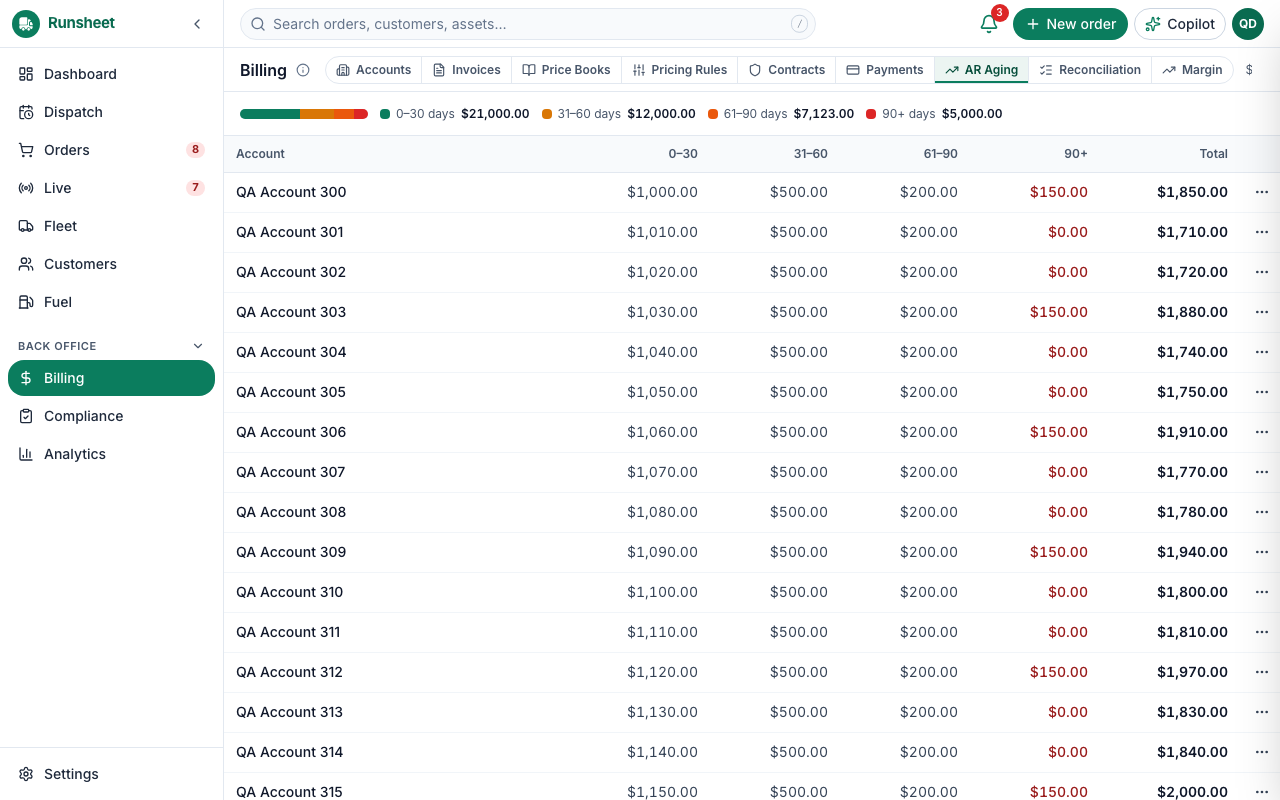
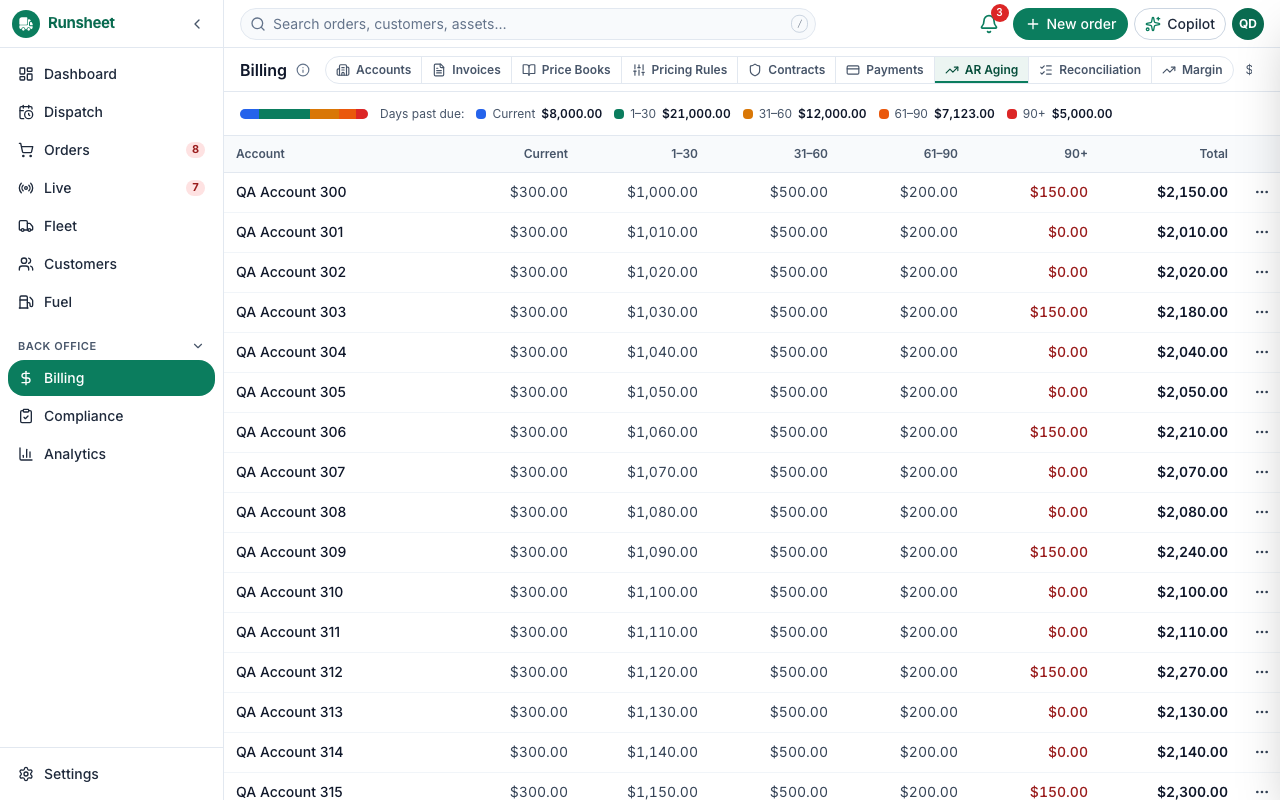
docs(ui): Phase 3 iteration 4 evidence (go-live-blockers merge, F-fix ports, re-verification)

diff --git a/.agents/tasks/ui-revamp-2026-10-08/phase3-review.md b/.agents/tasks/ui-revamp-2026-10-08/phase3-review.md
@@ -1,84 +1,60 @@
-# Phase 3 iteration 3: Billing, Compliance, Settings, Copilot parity and guard-to-zero
+# Phase 3 iteration 4 review: evidence and fixes closed; branch stale against go-live-blockers
 
-Iteration 3 (`713cee9..b70d8d9`, 26 commits) merges 3P's go-live-blockers head, then covers almost all of the remaining Phase 3 scope. Billing (invoices, accounts, payments, AR aging, reconciliation, price books, margin) and Compliance (certifications, meters, BOLs, IFTA, exemptions, tax, contracts, pricing rules, terminal detail) move onto the list and detail templates with `FormDialog` create/edit flows. Settings depots, flags, intake channels, integrations, templates, road restrictions and agent settings are migrated. `/ops/command` is deleted, with redirect row 5 and an inline Copilot confirmation that now records the decision through the approvals API. The Plans view's Emergency stop and Cost configuration dialogs are fixed (the iteration-2 finding). The format guard is at 0 and every `test.fail` mark is gone. The phase still can't be approved, because the bookkeeping and verification for this iteration don't exist yet.
+This pass covers `5300be5..eb0eec5`, the fixes for all nine iteration-3 findings and the iteration-3 evidence. All nine are closed. The shared `FormDialog`/`Modal`/`DataTable`/touch-variant additions are committed with no-change tests (`sharedAdditions.test.tsx`). The Plans cluster chips show product names. Cost import is a two-step `lg` FormDialog, and the deviation from the `steps` prop is recorded. The Sourcing wait report and cargo manifest editor are on FormDialog. Copilot cards with no action id offer no decision. 3.11's re-scope is written into `tasks.md`. Every Phase 3 task is ticked. `phase3-evidence.md` now records tsc, lint, jest (168 suites, 2351 passed), a fresh-checkout build, a full green `e2e/ui-revamp` run with no `test.fail` marks, the board e2e with N1 at 17.5 ms, 172 px first rows on every Phase 3 list page at both sizes, and axe on 31 pages and 13 dialogs. The measurement work also caught six Billing entries that were silently measuring the Invoices fallback, and fixed them.
 
-Watch for: none of the work since `4fc1e2c` has any evidence (confirmed). There's no tsc, lint, jest, build, e2e, chrome-height, axe or FormDialog-test record, even though `b70d8d9` removes every `test.fail` mark on the claim that all pages pass. 3.4, 3.5, 3.6, 3.8, 3.10 and 3.11 are still unticked (confirmed). The worktree has uncommitted changes to `FormDialog`, `Modal` and `Table` (confirmed). 3.11's portal swap was reverted (`dcb70b3`), and `tasks.md` doesn't record the hand-off (confirmed).
+Watch for: `origin/production-readiness/go-live-blockers` moved after the last merge (`ab5f933` → `e636358`, 14 commits), and merging it into this branch now conflicts in 9 files (confirmed). Those commits are owner-facing data-correctness fixes (F2–F5, F11–F13): an AR aging Current bucket, Analytics real data and as-of, fuel "—" for non-consuming stations, and scheduling completion %. They land in components Phase 3 rewrote or deleted, including `FuelSummaryBar.tsx`, which Phase 3 deleted and go-live-blockers modified. Phase 3 can't merge in order until they're ported into the redesigned components and re-verified.
 
 **Verdict**: NEEDS_CHANGES
 
 ## High-level view
 
-The migration itself matches the spec. Every create/edit row in design §5 now opens a `FormDialog`, except `CostImportDialog`, which moved to the shared `Modal` instead of the "lg steps" target. The bespoke `fixed inset-0` overlays outside `ui/` are down to the §5 exemptions (`ReportViewer`, `TankConsumptionDrillIn`, board sheets) and `request-pilot`. Products render as `ProductChip`/`ProductSelect` by name. Tax rates are now converted correctly: the old form asked for "1840 for 18.4¢", which is ten times the backend's `RATE_SCALE = 10`. The new form edits cents and stores tenths of a cent. One raw-code site survived in a file Phase 3 now owns: Plans' cluster member chips print `fuel_grade` verbatim.
+The Phase 3 scope matches the spec. Every create/edit flow in design §5 plus the extra inline flows found in review is on `FormDialog`. The only `fixed inset-0` overlays outside `ui/` are the §5 exemptions (`ReportViewer`, `TankConsumptionDrillIn`, board sheets), the mobile sidebar and `request-pilot`. The only remaining `type="number"` is in the Phase 2 `CompartmentsTab`, logged as a follow-up. Products render by name through `ProductChip`/`ProductSelect`. The station capacity and compartment float-gallon bugs have regression tests. Role gating matches `modules.ts`: System health is `platform_admin` only, Tier 4 Billing tabs are `platform_admin`, and Margin is admin-only and hidden when the feed is off. The Analytics range selector stays hidden (D13). The redirect map covers row 5 and every function move, and all 24 redirect tests pass in the recorded run. Portal and auth files are byte-identical to go-live-blockers. The Phase 2 edits are format-only plus the owner-requested tray fix, and all are listed in evidence.
 
-The gate can't pass on the record as it stands. The implementer's process puts verification in `phase3-evidence.md`, and that file stops at iteration 2. This iteration's chrome heights for the 13 new Compliance, Billing and Settings pages, axe results, jest counts and fresh-checkout build are all unrecorded. The review brief forbids re-running the suites to fill the gap. Removing the `test.fail` marks without a recorded green run is the most visible instance of the gap.
-
-3.11 is in an awkward state. The shared pieces are landing (the `open`/`partial` tokens and the `StatusBadge` `icon` prop are committed). `FormDialog`/`Modal` `mobile="sheet"`, the `aria-disabled` submit, `keepOpenOnSuccess`, and `DataTable` `stickyTop`/touch rows sit uncommitted in the worktree. The portal-side swap was reverted because "the portal workflow owns" those files. That revert keeps the portal-untouched rule, but 3.11 as written can't then be ticked. The task needs a recorded re-scope: shared pieces here, portal swap handed to the 3P workflow, with the gate it inherits.
-
-Copilot parity is functionally better than the console it replaces. The console's Approve and Reject buttons only changed local state, while the Copilot card calls `approveAction`/`rejectAction`. The backend chat stream doesn't appear to emit a `confirmation` event, though, so neither UI can reach this path end to end.
-
-Phase 2 and portal/auth boundaries hold. Portal and auth files are untouched across the whole branch. The Phase 2 edits this iteration are formatting-only, for guard-to-zero: `CompartmentsTab`, `DriverTray`, `ReplanDiffBody` and `OrderDetailView`. `driver-app/lib/tokens.ts` was regenerated with the two new statuses. All of these are additive, but none is noted in evidence.
+The blocker is integration, not implementation. Fourteen go-live-blockers commits from the owner's staging sweep (F1–F15) touch nine files this branch rewrote. A merge needs hand resolution, and some resolutions are real ports rather than picking a side. The backend now ages AR by due date and returns `bucket_current_cents`. Phase 3's `ARAgingDashboard` has no Current bucket, so taking Phase 3's side would leave the bucket bars short of `total_open_cents`. `Analytics.tsx` was rewritten on both sides (457 lines on go-live-blockers). `FuelSummaryBar` is a modify/delete conflict whose "—" for no consumption has to reappear in the Fuel title-row counts. Margin availability was fixed on both branches with the same intent, so `CommerceHub` and `marginApi` need a single reconciled version. All of the iteration-3 verification ran on the pre-merge tree, so the affected suites, the chrome/axe pages for Fuel, Analytics and Billing, and a fresh-checkout build need a re-run after the merge.
 
 <details>
-<summary>Issues (9)</summary>
+<summary>Issues (3)</summary>
 
-1. **Phase 3 tasks unticked (blocking)**: 3.4, 3.5, 3.6, 3.8, 3.10 and 3.11 are `[ ]` in `spec/tasks.md` (confirmed), and none is post-deploy-only. Tick each one with a Done note once its evidence exists.
-2. **No iteration-3 evidence (blocking)**: `phase3-evidence.md` ends at iteration 2 (confirmed). Add an iteration-3 section with tsc, lint, jest counts, a fresh-checkout build, a full `e2e/ui-revamp` run green with no `test.fail` marks, the board e2e with N1, a first-row px table at 1280×800 and 1440×900 for every new Compliance, Billing and Settings page in `pages.ts`, axe per new page and open dialog, tokens/CVD for `open`/`partial`, and the FormDialog behaviour tests per migrated flow.
-3. **Uncommitted shared-component changes (blocking)**: `ui/FormDialog.tsx` (`mobile`, `submitDisabled`, `keepOpenOnSuccess`), `ui/Modal.tsx` (`mobile="sheet"`) and `ui/Table.tsx` (`rowHeight="touch"`, `stickyTop`) are modified but not committed, and have no tests (confirmed). Commit them with no-change tests for existing callers, or drop them, and note them as additive in evidence.
-4. **3.11 scope versus the portal revert (blocking)**: `dcb70b3` reverted the portal-side swap, but 3.11 still requires removing `PORTAL_EXTRA_STATUS`/`PortalBadge`, `portalFormat.ts`, `PortalTable` and the rest (confirmed). Record in `tasks.md` that 3.11 delivers the shared pieces only and hands the portal swap to the 3P workflow, gated on unchanged portal baselines, then tick it. Otherwise do the swap.
-5. **Raw product code in Plans clusters**: `ops/FuelDistributionPage.tsx:2615` renders `` ` · ${m.fuel_grade}` `` (confirmed). The file is Phase 3-owned under 3.10. Use `productName()` or a `ProductCap`.
-6. **Cost import not on FormDialog**: `commerce/margin/CostImportDialog.tsx` uses the shared `Modal`, while design §5 targets "lg steps" (confirmed). Move it to a stepped `FormDialog` (Check file → Import), or record the deviation and the reason in evidence.
-7. **Inline numeric create forms outside §5**: the Sourcing wait report (`ops/SourcingPage.tsx:707`) and `ops/CargoManifestEditor.tsx:294` are still inline `type="number"` create forms (confirmed; both predate this branch). D9 says every create/edit flow. Migrate them, or list them as recorded exceptions.
-8. **Copilot confirmation unreachable and empty-id approve**: the chat stream doesn't appear to emit `type: "confirmation"` (likely; no emitter found in `Runsheet-backend`), and `AIChat` shows Approve/Reject even when `actionId` is `""`, which would call the approvals API with an empty id (confirmed). Hide the buttons (keep "Open in Approvals" hidden too) when there's no id, and note in evidence that the path is backend-gated.
-9. **Phase 2 and driver-app edits not recorded**: format-only edits to `CompartmentsTab`, `DriverTray`, `ReplanDiffBody`, `OrderDetailView`, plus the regenerated `driver-app/lib/tokens.ts` (confirmed additive). List them in evidence. `CompartmentsTab.tsx:138, 359` still print a raw `product_code` (pre-existing, Phase 2 file): log it as a follow-up.
+1. **Branch stale against go-live-blockers; F-fixes at risk (blocking)**: merging `e636358` conflicts in `Analytics.tsx`, `CommerceHub.tsx`, `ARAgingDashboard.tsx`, `AccountDetailPage.tsx`, `FuelStationDetail.tsx`, `FuelStationList.tsx`, `FuelSummaryBar.tsx` (modify/delete), `SchedulingMetricsPage.tsx` and `e2e/ui-revamp/shellFake.ts` (confirmed with `git merge-tree`). Merge it, then port F2/F3/F13 (Analytics real data, as-of, error states), F4/F11 (scheduling completion %, UTC bucket dates), F5 ("—" for non-consuming stations in the Fuel title-row counts and station detail) and F12 (AR Current bucket and "days past due" labels) into the redesigned components. Keep one Margin availability implementation. Then re-run tsc, lint, jest, a fresh-checkout build, and the ui-revamp chrome/axe/visual runs for Fuel, Analytics, Billing and Scheduling metrics, and record the results in evidence.
+2. **Phase 2 `CompartmentsTab` codes (follow-up)**: `CompartmentsTab.tsx:138, 359` still print a raw `product_code`, and `:143` is a `type="number"` input (confirmed; Phase 2 file, logged in evidence). Not blocking for Phase 3. Schedule it with the next board change.
+3. **Visual baselines self-recorded, Darwin only (follow-up)**: CI skips the pixel compare on Linux, so the new Billing/Compliance/Settings baselines guard nothing in CI (confirmed, carried). Record Linux baselines before go-live.
 
 </details>
 
 <details>
 <summary>Details</summary>
 
-### Evidence gap and the `test.fail` removal
-
-`b70d8d9` empties `pages.ts` of `chromeTask`/`axeTask` marks, and the header comment now says "no `test.fail()` marks remain after task 3.10". At iteration 2, three of those pages were measurably over budget or row-less: Compliance at 262 px, Billing invoices at 197 px, and Reconciliation, Settings depots and flags with no row under fixtures. The commits between them (`7483c51`, `844919f`, `bbe65c7`, `4aa4149`, `c30dd6f`) plausibly fix this: list templates, fixtures, and title-row counts in place of bands. Nothing records the numbers, though. The same goes for 13 new entries in `pages.ts` (Compliance ×4, Billing ×8, Settings tax/exemptions). The brief's rule applies: missing evidence for a required check is a finding, not something to re-run here.
-
-### 3.11 and the portal boundary
+### What go-live-blockers changed underneath Phase 3
 
 ```
-0cfa3d5  tokens open/partial + StatusBadge icon + portal badge swap   (3.11)
-dcb70b3  revert portal files (portal workflow owns them), keep tokens
-worktree FormDialog mobile/submitDisabled/keepOpenOnSuccess, Modal sheet,
-         Table touch/stickyTop  (uncommitted)
+ab5f933 (merged into ui-phase3 at 18b4829)
+   │
+   ├── ui-phase3: 5300be5 … eb0eec5  (iteration-3 fixes, evidence)
+   │
+   └── go-live-blockers: 776055c … e636358  (F1–F15 staging sweep)
+          backend: analytics snapshots/as_of/time-series, AR due-date aging,
+                   fuel avg-days exclusion, live delay minutes, driver reset
+          UI:      Analytics.tsx, SchedulingMetricsPage, FuelSummaryBar/
+                   StationList/StationDetail/DashboardView, ARAgingDashboard
+                   (+ agingLabels), AccountDetailPage, CommerceHub + marginApi
+                   (margin availability), shellFake ar-aging body
 ```
 
-The shared side is additive. `StatusBadge` gains an optional `icon` and a `data-icon` attribute, and the uncommitted props all default to today's behaviour. One caveat applies to the `Table` change: with `stickyTop` set, the `overflow-x-auto` wrapper is dropped, so a wide table on a narrow screen will overflow its container. That trade-off is fine for the portal but should be stated in the prop doc. The portal itself is byte-identical to go-live-blockers. What's missing is a decision record that reconciles the task text with the revert.
-
-### Copilot confirmation
-
-The deleted console's `handleInlineConfirm` only flipped `resolved` and appended a message, with no API call. The Copilot card calls `approveAction`/`rejectAction` and links to Live → Approvals, and `AIChat.test.tsx` covers show, approve, reject and failure. This raises the stakes on a correct `actionId`. `action.action_id || ""` lets a card with no id render live buttons. A search of `Runsheet-backend` found no chat SSE emitter for `confirmation`, so in practice approvals still go through Live → Approvals.
-
-### Format guard and remaining codes
-
-The guard reaching 0 counts only `toFixed`/`toLocale*` calls. It doesn't catch raw enum interpolation, and the Plans cluster chip (`m.fuel_grade`) slipped through that way. The same chip also shows `station_id`/`customer_tank_id` instead of names, which is the same readability class. `MarginRecordsPage` still shows `customer_id`/`terminal_id` columns raw, but those are identifiers, not codes.
-
-### Carried from iteration 2
-
-The visual baselines for Fleet, Customers and the board were self-recorded, and Linux baselines are still absent. Neither is addressed yet. Neither blocks approval, but both should be in the iteration-3 "not verified" list.
+The backend half merges cleanly. That widens the gap: after the merge, the API returns fields the Phase 3 UI doesn't render. For AR aging, the five-bucket response would show four bars that no longer sum to the total. For Fuel, the backend now excludes non-consuming stations from the average, while go-live-blockers' UI shows "—" for them, a display rule that lived in the deleted `FuelSummaryBar`. The Margin fix on go-live-blockers (`32614d9`) is the same change Phase 3 iteration 2 made (`getMarginAvailability`, `MarginUnavailable`), written independently, so the conflict in `CommerceHub` is two versions of one behaviour and should come out as one. `e636358` changes the same `shellFake` AR aging fixture that Phase 3 depends on for its Billing chrome/axe pages.
 
 </details>
 
 <details>
 <summary>File map</summary>
 
-- `components/commerce/*` (Invoices, Accounts, Payments, AR aging, InvoiceDetail, AccountDetail, PriceBookEditor, PortalAccessPanel, billingStatus, useCursorPages) and `commerce/margin/*`: Billing list/detail templates, sm/lg FormDialogs, ProductChip.
-- `components/ops/ReconciliationPage.tsx`: list template, Variance badge, shared Drawer.
-- `components/compliance/*`: Certifications, Meters, BOLs, IFTA, Exemptions, Tax (cents ↔ tenths), Contracts, Pricing rules, Terminal detail on templates + FormDialog.
-- `components/admin/*`, `NotificationSettingsTab.tsx`, `ops/AgentSettingsPage.tsx`: Settings sections, depot/flag/channel/integration/template/road-restriction FormDialogs, confirms on Modal.
-- `components/AIChat.tsx` (+test), `app/ops/command/**` (deleted), `ops/AgentToast.tsx` (deleted), `config/redirects.ts`, `e2e/ui-revamp/redirects.spec.ts`: 3.6 parity and row 5.
-- `components/ops/FuelDistributionPage.tsx` (+dialogs test): Emergency stop, Cost configuration on FormDialog; `ui/FormDialog.tsx` blocks NaN.
-- `components/ui/StatusBadge.tsx`, `design/tokens.json`, `styles/tokens.*`, `driver-app/lib/tokens.ts`: `open`/`partial`, `icon` prop.
-- `dispatch-board/drawer/CompartmentsTab.tsx`, `trays/DriverTray.tsx`, `ops/ReplanDiffBody.tsx`, `orders/OrderDetailView.tsx`, other ops/import files: lib/format only.
-- `lib/format.guard.test.ts` (0), `types/commerce.ts` (deleted), `e2e/ui-revamp/{pages,chrome,axe,phase3Fake,shellFake}.ts`.
-- Uncommitted: `ui/FormDialog.tsx`, `ui/Modal.tsx`, `ui/Table.tsx`.
+- `components/ui/{FormDialog,Modal,Table,Menu,FilterChips,EmptyState,InlineBanner}.tsx`, `ui/sharedAdditions.test.tsx`, `lib/format.ts`: 3.11 shared pieces (opt-in).
+- `components/commerce/margin/{CostImportDialog,MarginHub,MarginRecordsPage,marginToolbarSlot}.tsx`: two-step import, Records toolbar in the sub-tab row, 172 px.
+- `components/ops/{SourcingPage,CargoManifestEditor,FuelDistributionPage}.tsx`: wait report and manifest on FormDialog, cluster chips by name.
+- `components/AIChat.tsx` (+test): no decision without an action id.
+- `components/commerce/PaymentsListPage.tsx`, `ops/AgentSettingsPage.tsx`, `NotificationMetrics*`, `compliance/TaxJurisdictionsPage.tsx`: axe and wrap fixes.
+- `e2e/ui-revamp/{pages,chrome,axe,visual,phase3Dialogs}.spec/ts`, `phase3Fake.ts`, `__screenshots__/*`: platform_admin roles for Tier 4 pages, dialog axe, new baselines.
+- `spec/tasks.md`, `phase3-evidence.md`: ticks, 3.11 re-scope, iteration-3 evidence.
 
-Full diff: `git -C .worktrees/ui-phase3 diff origin/production-readiness/go-live-blockers...HEAD`; this iteration: `git diff 713cee9 HEAD` plus `git diff` (worktree).
+Full diff: `git -C .worktrees/ui-phase3 diff origin/production-readiness/go-live-blockers...HEAD`. This pass: `git diff b70d8d9 eb0eec5`. Pending upstream: `git log HEAD..origin/production-readiness/go-live-blockers`.
 
 </details>

diff --git a/.agents/tasks/ui-revamp-2026-10-08/phase3-evidence.md b/.agents/tasks/ui-revamp-2026-10-08/phase3-evidence.md
@@ -309,3 +309,65 @@ All 23 Phase 1 redirects plus row 5 pass in the full run.
 ### Housekeeping
 
 `.next`, `test-results` and the fresh worktree removed. Scratch under `Runsheet/tmp/ui-phase3/` (logs, run scripts, screenshot copies) is deleted at the end of this iteration.
+
+## Iteration 4
+
+Commits `53517ee..a4a702c` on `production-readiness/ui-phase3`. `origin/production-readiness/go-live-blockers` @ `e636358` (F1–F15 staging sweep) merged at `53517ee` with the nine conflicts resolved by hand, then @ `e19fb9b` (Mailtrap SMTP, backend only, no conflicts) merged at `a4a702c`. After the merges, `Runsheet-backend/`, portal and auth files are byte-identical to go-live-blockers (`git diff --stat origin/production-readiness/go-live-blockers HEAD -- Runsheet-backend runsheet/src/components/portal runsheet/src/app/portal runsheet/src/app/auth` is empty). Not pushed, not deployed.
+
+All Phase 3 tasks stay ticked (3.1–3.11). Nothing new is post-deploy-only.
+
+### Review findings (iteration 4 review)
+
+| # | Finding | Resolution |
+|---|---|---|
+| 1 (HIGH) | Branch stale against go-live-blockers; F-fixes at risk | Merged and ported (table below), then re-verified. |
+| 2 (LOW) | `CompartmentsTab` raw codes / `type="number"` (Phase 2 file) | Still a follow-up for the next board change. Not edited. |
+| 3 (LOW) | Visual baselines are Darwin-only | Still a follow-up: record Linux baselines before go-live. |
+
+### Conflict resolution: how each F-fix landed in the Phase 3 components
+
+| File | Resolution |
+|---|---|
+| `commerce/ARAgingDashboard.tsx` (F12) | Phase 3 layout kept. A Current bucket was added first, in the `open` (blue) hue, with the OK, Warning, Overdue and Critical hues following. The toolbar legend now reads "Days past due: Current · 1–30 · 31–60 · 61–90 · 90+", and each label's full `AGING_LABELS` text sits in an sr-only span and a `title`. The title-row counts read "90+ days past due". The accounts table gains a Current column, and "0–30" became "1–30". In the History drawer, Current shows "—" for snapshots from before due-date aging. The upstream test "renders '—' for Current on history snapshots…" now opens the History drawer first (Phase 3 moved history there). |
+| `commerce/AccountDetailPage.tsx` (F12) | Phase 3 template kept. The aging facts are six columns: Current plus the four `AGING_LABELS` buckets and Total open. |
+| `ops/FuelSummaryBar.tsx` (F5, modify/delete) | It stays deleted, because Phase 3 replaced it with the Fuel title-row counts. The "—" now lives in `FuelDashboardView` as `avgDaysLeftLabel()`: the counts always show "Avg — days left" when `average_days_until_empty` is null or 0. The upstream test moved to `ops/FuelDaysLeft.test.tsx` and now targets the new components: the title-row label, list "—" with no 99999, sort-last in both directions (DataTable header), station detail "—", and `displayDaysUntilEmpty`. |
+| `ops/FuelStationList.tsx`, `ops/FuelStationDetail.tsx` (F5) | Phase 3 DataTable and drawer kept. Both use `displayDaysUntilEmpty`, and no-consumption stations sort last. |
+| `Analytics.tsx` (F2/F3/F13) | The upstream rewrite was the base: real KPIs only, null-safe, a real 30-day series, error state with Retry, the empty-snapshot state, and weighted route average. The Phase 3 chrome was re-applied on top: no nested header (the hub owns the title), "As of …" published to the Analytics hub title row through `usePageChrome` (inline when rendered standalone), `CHART` pie palette, `number()` and `dateTime()` formatters, and the KPI card and section-heading styles. The range selector stays hidden (D13; the upstream test asserts there's no combobox). |
+| `ops/SchedulingMetricsPage.tsx` (F4/F11) | Upstream was the base: UTC bucket labels, completion rate already in 0–100, "Dates are in UTC". The Phase 3 formatters were re-applied on top, and completion now goes through `pct(rate, { decimals: 1 })` without `fraction`. |
+| `CommerceHub.tsx` + `marginApi.ts` (Margin availability) | After resolution, both files match Phase 3's version exactly. The availability code was the same on both sides, so one implementation remains: `getMarginAvailability`, `MarginUnavailable` and `isMarginDisabledError`. The conflicts were only in Phase 3's detail-route navigation, and that side was kept. |
+| `e2e/ui-revamp/shellFake.ts` | Phase 3 side kept. The upstream `/commerce/ar-aging` and IFTA stubs would have shadowed the richer `phase3Fake` fixtures, which are consulted later. `phase3Fake` AR aging gained `bucket_current_cents` (summary and per-account), and totals were adjusted to match. `phase3Fake` also gained `/analytics/metrics` (with `as_of`), `/analytics/routes` and `/analytics/timeseries` in the new shape. Without them, the Analytics visual guarded an empty page. |
+
+Also fixed: `format.guard` found two new direct `toLocale*` calls from the merge, one in Analytics `formatAsOf` (now `dateTime()`) and one in a SchedulingMetrics comment (reworded). The baseline is back to 0.
+
+### Verification (from `.worktrees/ui-phase3/runsheet`, node_modules symlinked to `merge-board`; code at `4d114d2`, the final merge adds backend files only)
+
+| Check | Result |
+|---|---|
+| `npx tsc --noEmit -p .` | clean |
+| `npm run lint` (biome) | 0 errors, 2 warnings: `DispatchBoard.tsx:327`, which predates this iteration, and the unused suppression in `portal/PortalTitleRow.tsx:40` (portal file, not edited) |
+| `npx jest --silent --maxWorkers=50%` | **170 suites; 2373 passed, 1 skipped, 2 failed**. The two failures are 5 s timeouts in files this iteration didn't touch (`dispatch-board/map/map.test.tsx`, `portal/__tests__/RequestDeliveryDialog.test.tsx`) under load average ~12. Re-run alone: 25/25 pass. An earlier full run had 4 different timeouts (`AgentHealth`, `forgot-password`, `cargo/page.real-shape`) plus the real `format.guard` failure. The guard is fixed, and those three pass alone. |
+| Targeted suites for merged areas | Analytics, AnalyticsHub, SchedulingMetricsPage, FuelDaysLeft, ARAgingDashboard (11/11), AccountDetailPage, CommerceHub.margin, hubs.urltabs, margin/*, marginApi.availability, format.guard: all pass |
+| `npm run build` | exit 0 |
+| Fresh checkout (`git worktree add --detach` of `4d114d2` under `tmp/`) | `tsc` OK, `next build` exit 0 (32/32 pages, `BUILD_ID` written); worktree removed |
+| ui-revamp e2e, full (`npx playwright test -c playwright.ui-revamp.config.ts --project=chromium`) | Before the fixture update: 255 passed, and the only 2 failures were the Analytics visuals (expected after the F2/F3 rewrite). After the fixture update and re-recording the Analytics baselines (`-g analytics --update-snapshots`, 8 passed), a full re-run gave **257 passed, 0 failed**. That covers chrome, axe (62 + 21 dialogs), 24 redirects, tabs, systemHealth, fuelStation and visual. |
+| Dispatch board e2e (`PW_BOARD_PROD=1`, all projects) | **28 passed, 32 skipped**, 0 failed. N1 drag p95 **18.4 ms** (budget 20), hover 18.3, scroll 18.5, 12 lane rows |
+| Backend gate | Not needed. This branch changes no backend file, and the backend is identical to go-live-blockers, where it was CI'd. |
+
+Chrome height, first data row, from `firstRowTop` annotations in the full re-run (budget 172, 1280×800 / 1440×900): Fleet trucks, drivers, qualifications and inventory, Customers, Communications, Fuel stations, Compliance certifications, meters, BOLs and IFTA, Billing invoices, accounts, payments, AR aging, reconciliation, price books, pricing rules, contracts and margin, and Settings depots, flags, tax and exemptions: **172 / 172 each**. Analytics content top 92 / 92. Phase 2 is unchanged: Dashboard 145, Board 168 (1024×768: 168), Jobs, Plans and Orders 172, Live 145.
+
+Axe: 0 critical or serious on every page and dialog in the full run, including the merged Fuel, Billing AR aging and Analytics pages.
+
+Contrast and colour vision: `styles/tokens.test.ts` passes. In the new AR Current bucket, colour isn't the only signal: each bucket is labelled in text, and the bar's `aria-label` gives every bucket's share.
+
+Screenshots: `screenshots/phase3/` was refreshed from the full re-run (67 PNGs, 1280×800 and 1440×900), including `analytics-*` (KPIs, as-of in the title row, trend, gauge, coloured route mix) and `billing-ar-aging-*` (Current first, "Days past due" legend).
+
+Redirect map: unchanged since iteration 3. All 24 redirect tests pass in the full re-run.
+
+### Not verified / follow-ups
+
+- The `billing-ar-aging` visual passed against its iteration-3 baseline even though the Current column was added, so that compare is looser than the screenshot suggests. The baseline wasn't re-recorded. The screenshot in `screenshots/phase3/` shows the new render.
+- Carried: Linux visual baselines; `CompartmentsTab` codes (Phase 2); Copilot confirmation is backend-gated; Margin off-state is verified in the release step (post-deploy).
+
+### Housekeeping
+
+`.next`, `test-results`, `coverage` and the fresh worktree removed. Scratch under `Runsheet/tmp/ui-phase3/` and `tmp/p3merge/` deleted.
